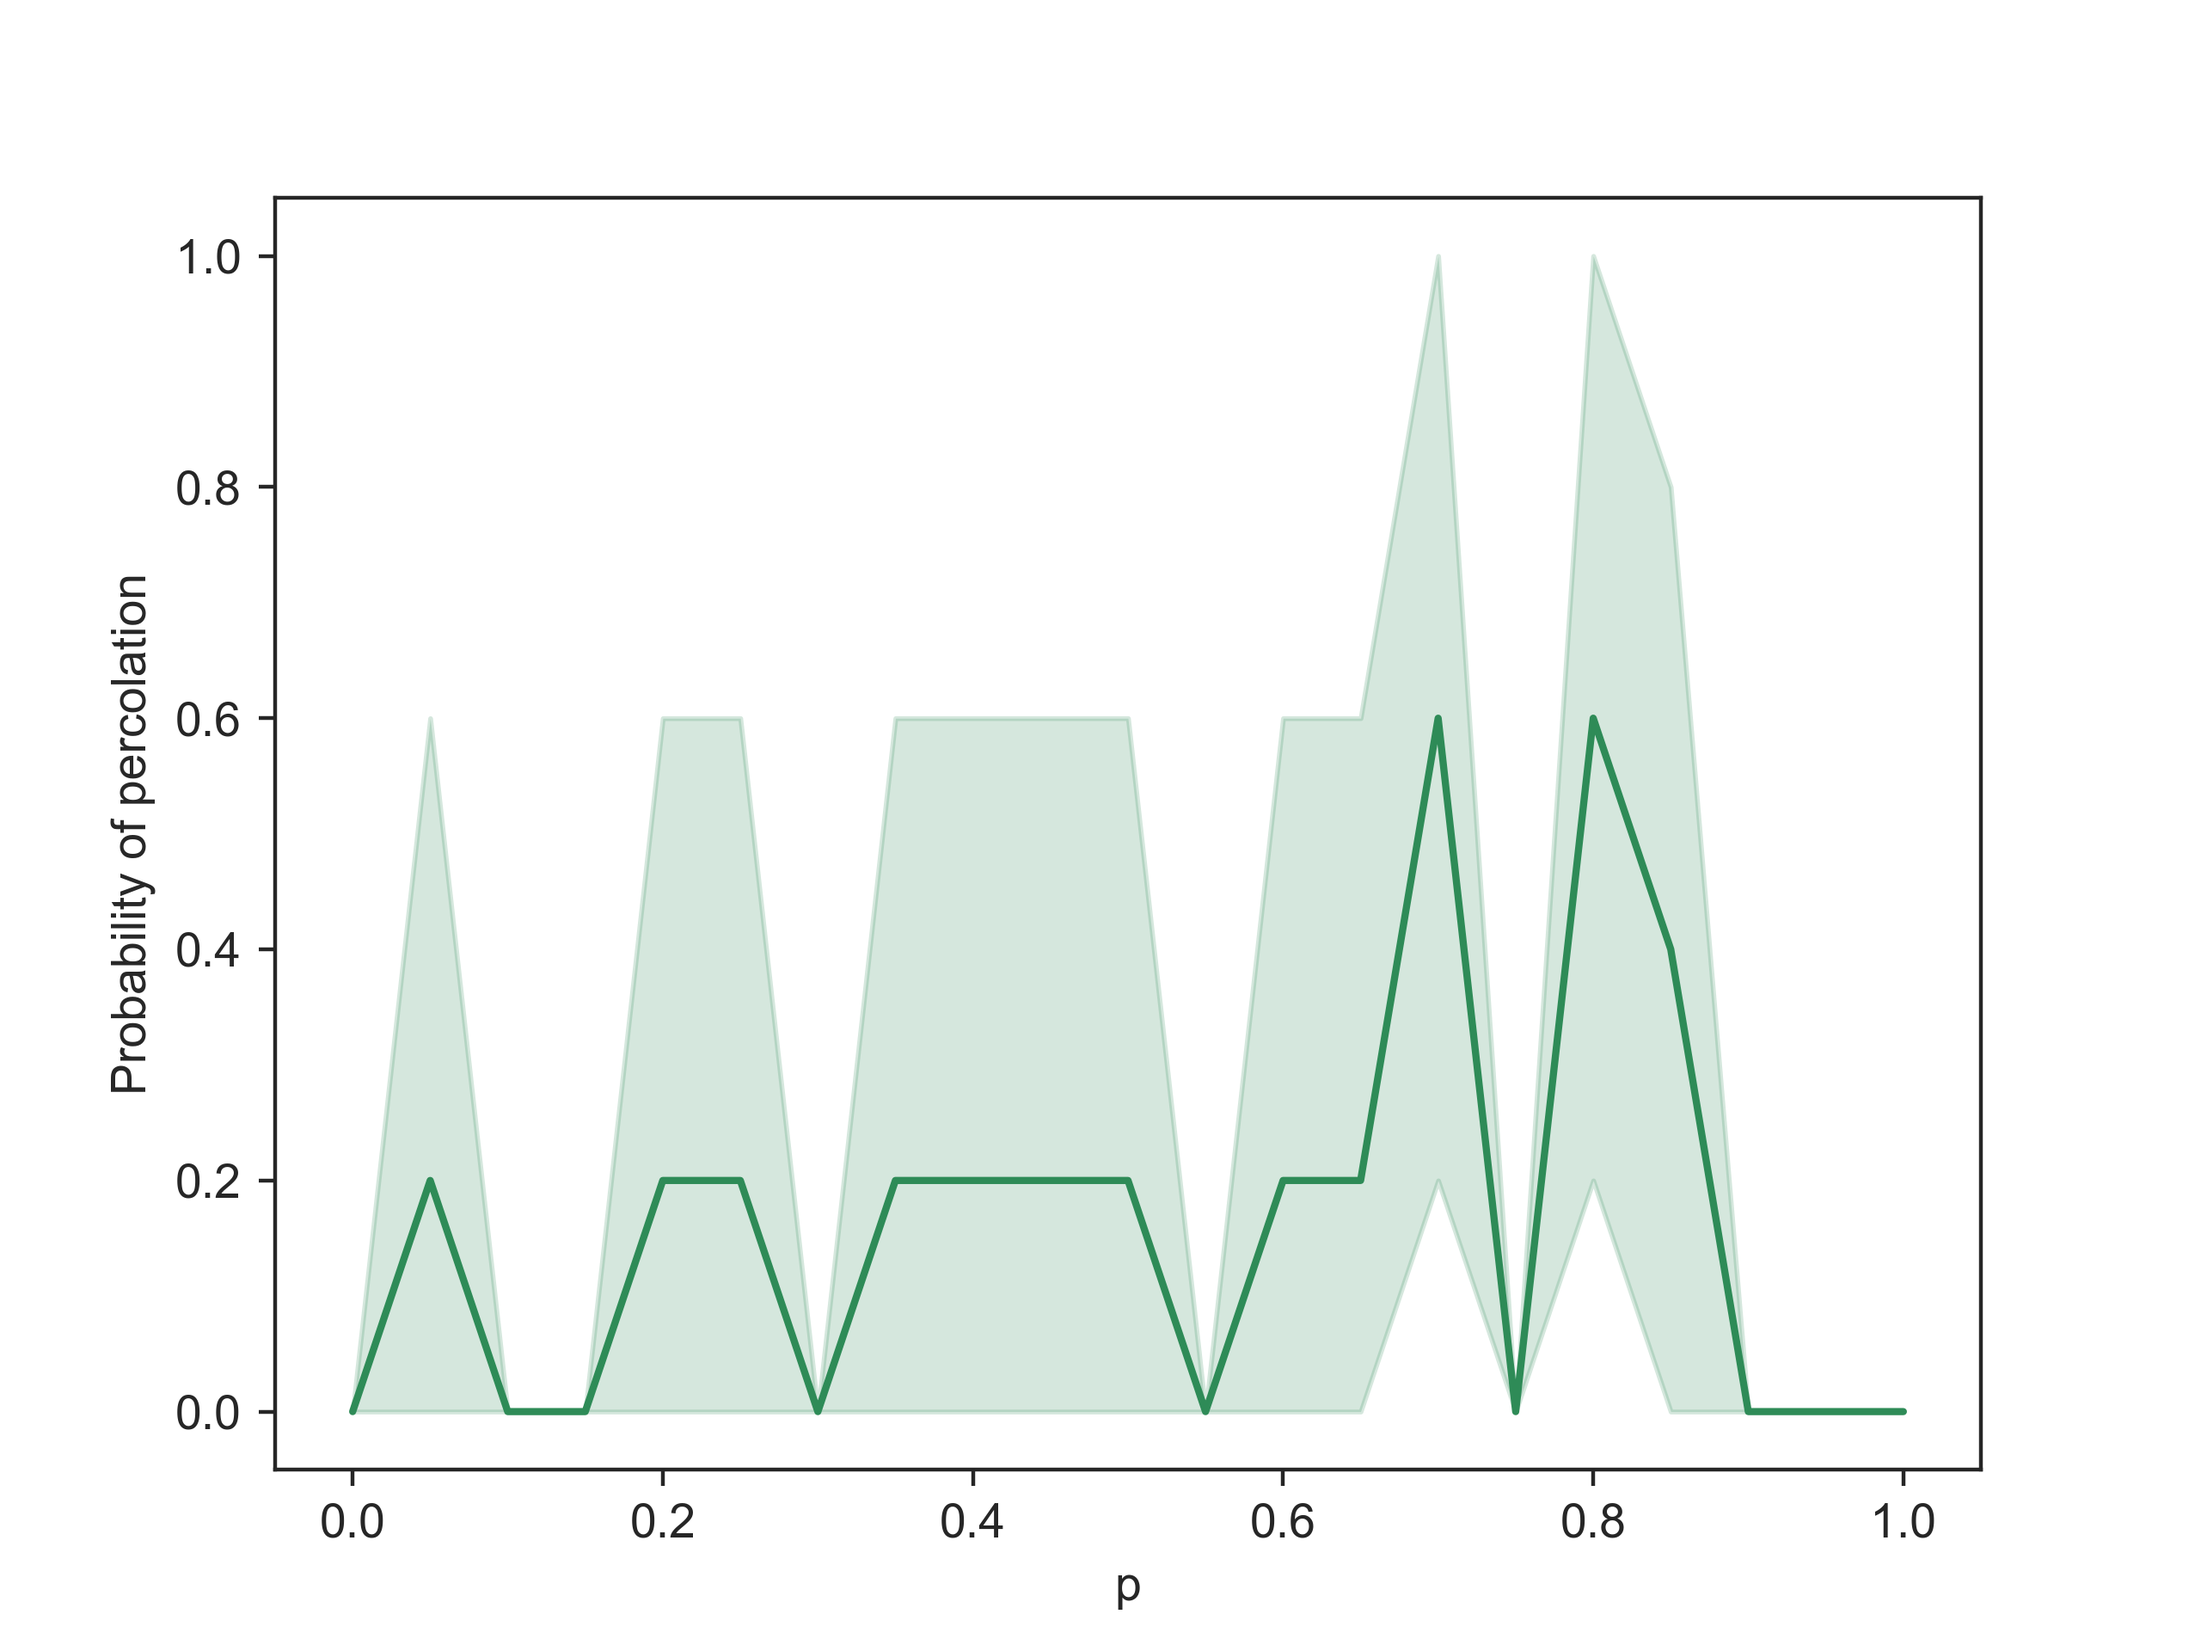
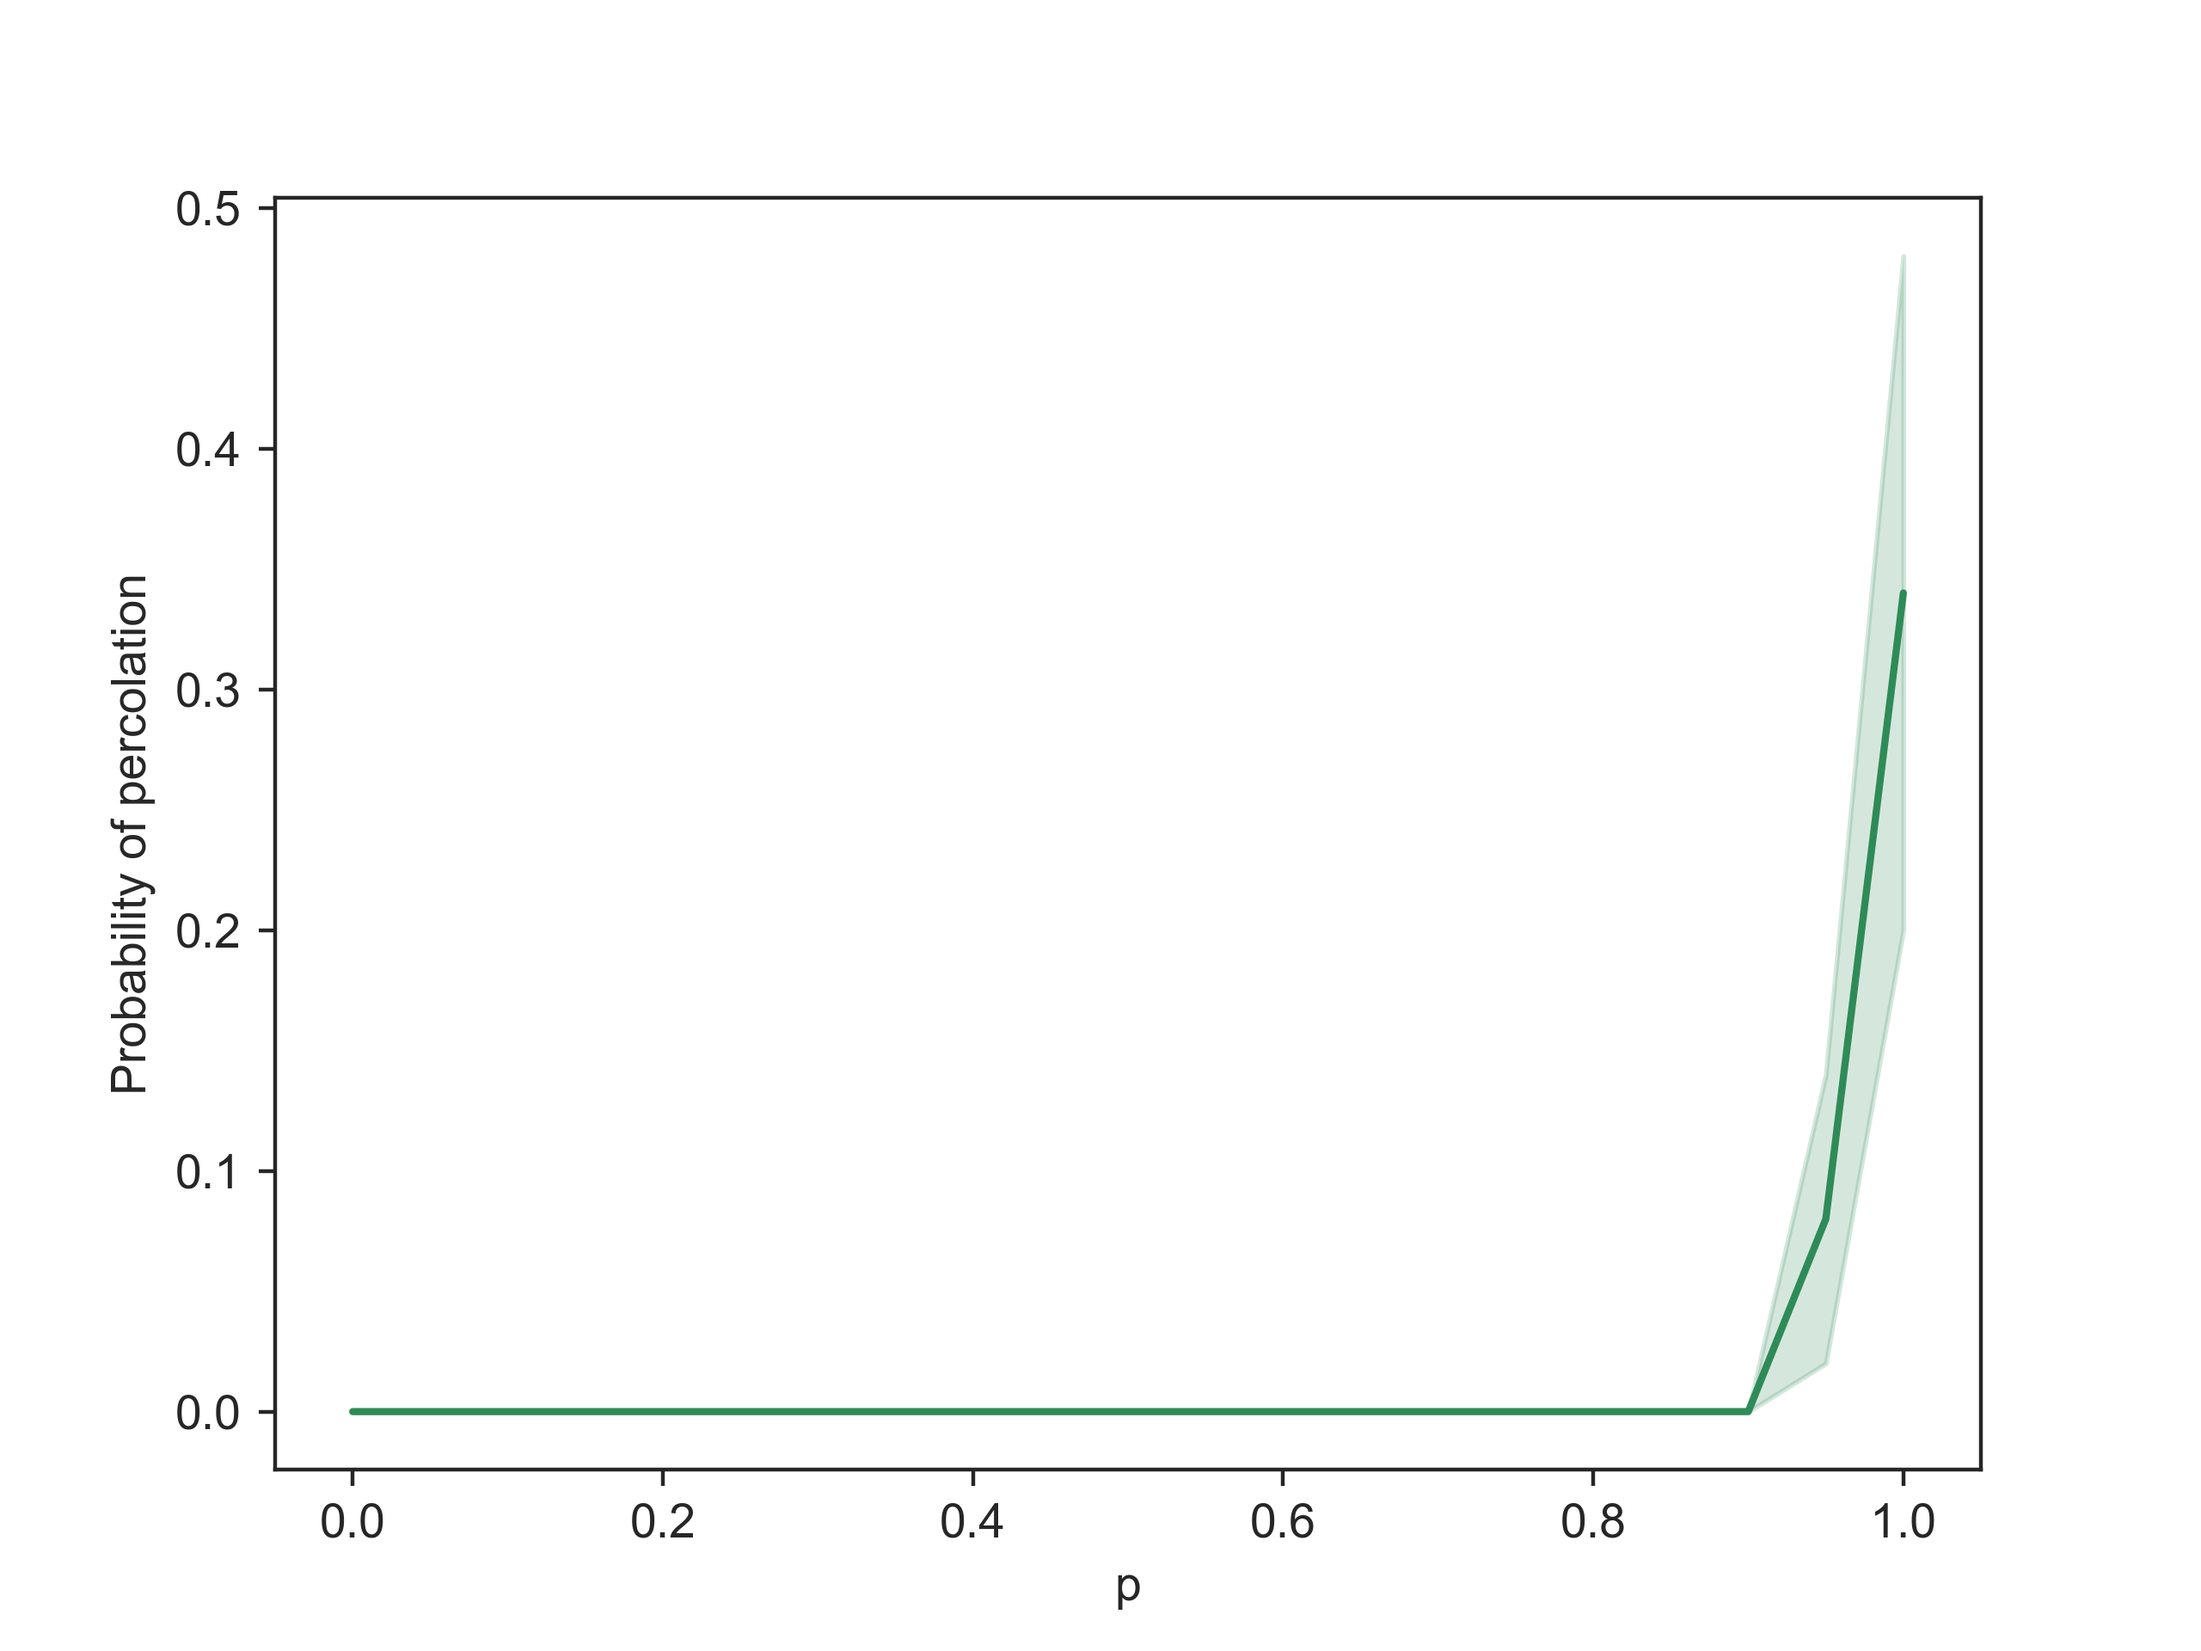
parallel experiments done

diff --git a/Code/main.py b/Code/main.py
@@ -13,13 +13,12 @@ from forest import Forest
 from typing import List, Dict
 import json
 from plot import density_lineplot
-import constants
 
 import multiprocessing as mp
 
-def experiment(densities: float, n_experiments: int, n_simulations: int, veg_ratio: List[float],
+def experiment(density: float, n_experiments: int, n_simulations: int, veg_ratio: List[float],
                grid_type: str, dimension: int, burnup_time: int, neighbourhood_type: str,
-               visualize: bool, save_data: bool) -> None:
+               visualize: bool) -> None:
     """Runs n experiments for different values of p. For every experiment a simulation
     with the same settings is repeated m times, from which the percolation proability
     for that value of p is calculated. These probabilities are saved into a dictionary.
@@ -34,63 +33,50 @@ def experiment(densities: float, n_experiments: int, n_simulations: int, veg_rat
         burnup_time (int): burnup time for Trees
         neighbourhood_type (str): neighbourhood model ("moore" or "von_neumann")
         visualize (bool): whether to visualize the Forest model.
-        save_data (bool): whether to save the percolation data.
 
     Returns:
         Dict: Dictionary with percolation probabilities for different p values
     """
-    
-    percolation_info = {}
 
     # for each density value
-    for p in densities:
-        print(f"\n------ DENSITY={p} ------\n")
 
-        # perform n experiments
-        for n in range(n_experiments):
-            print("\nEXPERIMENT:", n, "\n")
+    print(f"\n------ DENSITY={density} ------\n")
+    results = []
+
+    # perform n experiments
+    for n in range(n_experiments):
+        print("\nEXPERIMENT:", n, "\n")
+        
+        percolation_count = 0
+
+        # of a predefined range of simualtions
+        for _ in range(n_simulations):
             
-            percolation_count = 0
+            model = Forest(
+                grid_type=grid_type,
+                dimension=dimension,
+                density=density,
+                burnup_time=burnup_time,
+                veg_ratio=veg_ratio,
+                neighbourhood_type=neighbourhood_type,
+                visualize=visualize
+            )
 
-            # of a predefined range of simualtions
-            for _ in range(n_simulations):
+            # run simulation
+            model.simulate()
+
+            # check if percolation occured
+            if model.check_percolation():
+                percolation_count += 1
                 
-                model = Forest(
-                    grid_type=grid_type,
-                    dimension=dimension,
-                    density=p,
-                    burnup_time=burnup_time,
-                    veg_ratio=veg_ratio,
-                    neighbourhood_type=neighbourhood_type,
-                    visualize=visualize
-                )
-
-                # run simulation
-                model.simulate()
-
-                # check if percolation occured
-                if model.check_percolation():
-                    percolation_count += 1
-                    
-            # retrieve percolation probability over the n simulations
-            percolation_chance = percolation_count / n_simulations
-            print(f"percolation count: {percolation_count}, n simulations: {n_simulations}")
-            print("chance:", percolation_chance)
-            
-            # save percolation probabilities per experiment in a dictionary
-            if p in percolation_info:
-                percolation_info[p].append(percolation_chance)
-            else:
-                percolation_info[p] = [percolation_chance]
-            
-    print(percolation_info)
-    print()    
+        # retrieve percolation probability over the n simulations
+        percolation_chance = percolation_count / n_simulations
+        print(f"percolation count: {percolation_count}, n simulations: {n_simulations}")
+        print("chance:", percolation_chance)
+        
+        results.append(percolation_chance)
     
-    if save_data:
-        with open('Output/percolation_data_veg_bt.json', 'w') as fp:
-            json.dump(percolation_info, fp)
-    
-    return percolation_info
+    return results
 
 
 if __name__ == "__main__":
@@ -110,6 +96,8 @@ if __name__ == "__main__":
     # vegetation grid type input
     parser.add_argument('grid_type', nargs='?', choices=['default', 'stripe', 'vertical', 'random'],
                         help='Specify the mode to run (test, crit_p)')
+    # number of processors for simulation
+    parser.add_argument('--np', type=int, required=False, help='fire burnup time')
 
     args = parser.parse_args()
     
@@ -132,6 +120,11 @@ if __name__ == "__main__":
         veg_ratio = args.veg_ratio
     else:
         veg_ratio = []
+    # parallel setting
+    if args.np is not None:
+        n_proc = args.np
+    else:
+        n_proc = 1
         
     
 
@@ -156,34 +149,46 @@ if __name__ == "__main__":
         step = 0.05
         densities = np.arange(0, 1 + step, step)
         
-        # serial
-        results = experiment(
-                densities=densities,
-                n_experiments=5,
-                n_simulations=10,
-                grid_type='mixed',
-                dimension=dimension,
-                burnup_time=burnup_t,
-                neighbourhood_type="moore",
-                visualize=False,
-                save_data=True
-            )
+        # # serial
+        # results = []
+        # for density in densities:
+        #     result = experiment(
+        #             density=density,
+        #             n_experiments=5,
+        #             n_simulations=10,
+        #             veg_ratio=veg_ratio,
+        #             grid_type=args.grid_type,
+        #             dimension=dimension,
+        #             burnup_time=burnup_t,
+        #             neighbourhood_type="moore",
+        #             visualize=False
+        #         )
             
-        # # parallel
-        # pool = mp.Pool()
-        # percolation_info = {}
-        # import functools
-        # results = pool.map(functools.partial(experiment,
-        #                         n_experiments=5,
-        #                         n_simulations=5,
-        #                         grid=grid,
-        #                         grid_type='mixed',
-        #                         dimension=dimension,
-        #                         burnup_time=burnup_t,
-        #                         neighbourhood_type="moore",
-        #                         visualize=False,
-        #                         save_data=True), densities)
+        #     results.append(result)
+            
+        # parallel
+        pool = mp.Pool(n_proc)
+        import functools
+        results = pool.map(functools.partial(experiment,
+                                n_experiments=5,
+                                n_simulations=10,
+                                veg_ratio=veg_ratio,
+                                grid_type=args.grid_type,
+                                dimension=dimension,
+                                burnup_time=burnup_t,
+                                neighbourhood_type="moore",
+                                visualize=False), densities)
         
-
+        pool.close()
+        
+        keys = densities
+        results_dict = dict(zip(densities,results))
+        
+        print(results_dict)
+        
+        if True:
+            with open('Output/percolation_data_veg_bt.json', 'w') as fp:
+                json.dump(results_dict, fp)
+            
         # Make a density lineplot
-        density_lineplot(results, savefig=True)
+        density_lineplot(results_dict, savefig=True)

diff --git a/Code/constants.py b/Code/constants.py
@@ -16,8 +16,8 @@ FIRE = 4
 BURNED = 5
 
 ###################### Ignition probability ######################
-P_TREE = 1
-P_GRASS = 1
+P_TREE = 0.8
+P_GRASS = 0.3
 P_SHRUB = 0.25
 
 ###################### Humidity reaction ######################
